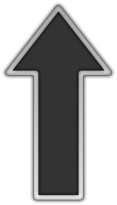
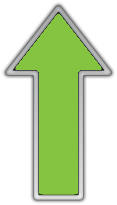
Updated AR Navigation Image Components.
- On-screen display for both the arrow and the landmark have been
updated. Additionally, the compoany name will appear (clearly) above
the landmark.

diff --git a/app/SidebarDemo/NavigationViewController.m b/app/SidebarDemo/NavigationViewController.m
@@ -71,10 +71,10 @@
         [view addSubview:arrowView];
         view.displayed = NO;
     } else {
-        UIImageView *boxView = [[UIImageView alloc] initWithImage:[UIImage imageNamed:@"box.png"]];
+        UIImageView *boxView = [[UIImageView alloc] initWithImage:[UIImage imageNamed:@"Location_Icon_Medium_Spaced.png"]];
         boxView.autoresizingMask = UIViewAutoresizingFlexibleHeight | UIViewAutoresizingFlexibleWidth;
-        UILabel *lbl = [[UILabel alloc] initWithFrame:CGRectMake(4, 16, boxView.frame.size.width - 8, 20)];
-        lbl.font = [UIFont systemFontOfSize:10];
+        UILabel *lbl = [[UILabel alloc] initWithFrame:CGRectMake(0, 0, boxView.frame.size.width, 30)];
+        lbl.font = [UIFont fontWithName:@"Helvetica Neue" size:10];
         lbl.minimumFontSize = 2;
         lbl.backgroundColor = [UIColor clearColor];
         lbl.textColor = [UIColor whiteColor];
@@ -82,7 +82,7 @@
         lbl.text = text;
         lbl.autoresizingMask = UIViewAutoresizingFlexibleHeight | UIViewAutoresizingFlexibleWidth | UIViewAutoresizingFlexibleBottomMargin;
         view = [[ARObjectView alloc] initWithFrame:boxView.frame];
-        //[view addSubview:boxView];
+        [view addSubview:boxView];
         [view addSubview:lbl];
     }
     
